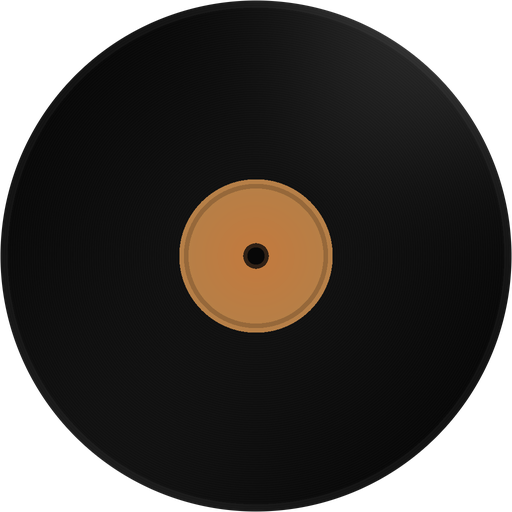
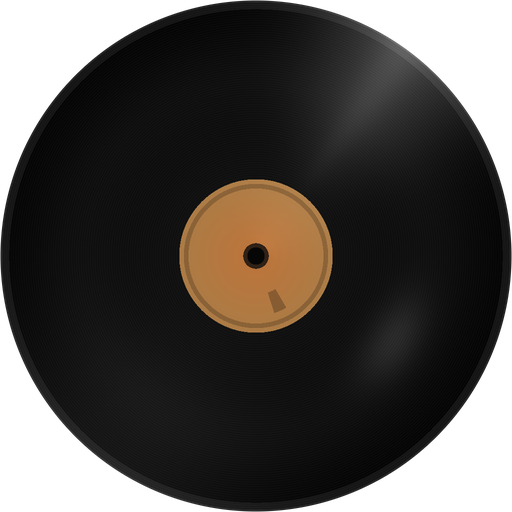
style(vinyl): bake directional glints into the record
Concentric grooves look identical at every angle, so the spin was hard to read. Add a broad reflection, a tight specular streak, a small off-axis catchlight and a lit rim to the texture. Rotating with the disc, they make the motion obvious without touching any other part of the popup.

diff --git a/assets/generate-vinyl.py b/assets/generate-vinyl.py
@@ -4,6 +4,10 @@
 Rendered once at twice the shipped size and downsampled, so the grooves stay
 smooth and the disc edge is antialiased. No runtime effect or blur is involved:
 the QML side only moves and rotates this one image.
+
+Concentric grooves alone look the same at every angle, so the spin is invisible.
+The directional glints below are baked into the texture: they rotate with the
+record, which is what makes the motion legible at a glance.
 """
 
 import numpy as np
@@ -19,36 +23,53 @@ dy = (y - c) / c
 r = np.sqrt(dx * dx + dy * dy)
 a = np.arctan2(dy, dx)
 
-# Two soft angular lobes make the light lie on the record rather than sit on
-# top of it. They are deliberately dim so the grooves remain the detail you
-# notice.
+
 def lobe(theta, width):
     d = np.angle(np.exp(1j * (a - theta)))
     return np.exp(-(d * d) / (2.0 * width * width))
 
-grooves = np.sin(r * 220 * np.pi) * 2.1 + np.sin(r * 520 * np.pi) * 0.9
-base = 9.0 + 13.0 * (1.0 - r) + grooves
-sheen = 30.0 * lobe(-0.95, 0.42) * np.clip((r - 0.30) / 0.70, 0, 1)
-sheen += 10.0 * lobe(2.20, 0.55) * np.clip((r - 0.32) / 0.68, 0, 1)
-v = np.clip(base + sheen + np.where(r > 0.97, 10.0, 0.0), 0, 70)
 
+radial = np.clip((r - 0.26) / 0.72, 0, 1)
+
+# Deeper radial shading and a mid-band lift give the disc some body.
+base = 6.0 + 17.0 * (1.0 - r) + 5.0 * np.exp(-((r - 0.70) / 0.16) ** 2)
+
+# Pressed grooves. They carry detail, not motion; the glints below do that.
+grooves = np.sin(r * 220 * np.pi) * 3.2 + np.sin(r * 520 * np.pi) * 1.4
+
+# A broad reflection and a tighter specular streak on the same bearing, plus a
+# second weaker one opposite. A small off-axis patch catches the light too.
+glint = 56.0 * lobe(-0.95, 0.26) * radial
+glint += 20.0 * lobe(-0.95, 0.075) * radial
+glint += 17.0 * lobe(2.20, 0.42) * radial
+dr = (r - 0.63) / 0.10
+dt = np.angle(np.exp(1j * (a - 0.55))) / 0.30
+patch = 26.0 * np.exp(-(dr * dr + dt * dt))
+
+# A lit rim and a dark step just inside it read as a pressed edge.
+edge = np.where(r > 0.965, 16.0, 0.0) + np.where(r > 0.992, 10.0, 0.0)
+
+v = np.clip(base + grooves + glint + patch + edge, 0, 110)
 disc = np.stack([v, v, v], axis=-1)
 
-# Warm paper label, with a pressed inner ring and a small spindle hole.
+# Warm paper label with an angular shade and one printed mark, so the label
+# turns with the record instead of looking like a flat static disc.
 label = r < 0.30
 lr = r / 0.30
 label_rgb = np.stack([
-    196.0 - 14.0 * lr,
-    122.0 + 6.0 * lr,
-    62.0 + 10.0 * lr,
+    190.0 - 18.0 * lr,
+    116.0 + 8.0 * lr,
+    58.0 + 12.0 * lr,
 ], axis=-1)
-ring = (lr > 0.88) & (lr < 0.94)
-label_rgb[ring] *= 0.82
+label_rgb = label_rgb + (6.0 * lobe(-0.95, 0.60))[:, :, None]
+label_rgb[(lr > 0.88) & (lr < 0.94)] *= 0.80
+mark = (lr > 0.50) & (lr < 0.78) & (np.abs(np.angle(np.exp(1j * (a - 1.15)))) < 0.11)
+label_rgb[mark] *= 0.76
 disc[label] = np.clip(label_rgb[label], 0, 255)
 
 hole = r < 0.034
 rim = (r >= 0.034) & (r < 0.050)
-disc[hole] = (7, 7, 7)
+disc[hole] = (6, 6, 6)
 disc[rim] = (48, 33, 22)
 
 alpha = np.clip((1.0 - r) * c, 0, 1) * 255.0
